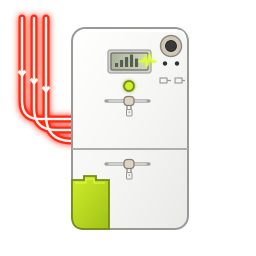
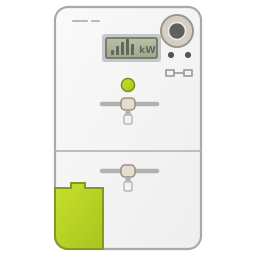
Use compact smart meter artwork

Changed region(s): [[0.0312, 0.0, 0.8125, 1.0], [0.75, 0.0312, 0.7812, 0.0625]]

diff --git a/custom_components/gridpilot/frontend/gridpilot-card.js b/custom_components/gridpilot/frontend/gridpilot-card.js
@@ -158,7 +158,7 @@ class GridPilotCard extends HTMLElement {
       </style>
       <ha-card tabindex="0">
         <div class="heading">
-          <img class="brand-icon" src="/gridpilot_brand/icon.svg?v=0.1.6" alt="">
+          <img class="brand-icon" src="/gridpilot_brand/icon.svg?v=0.1.7" alt="">
           <div class="title"></div>
         </div>
         <div class="battery">

diff --git a/custom_components/gridpilot/const.py b/custom_components/gridpilot/const.py
@@ -5,7 +5,7 @@ from typing import Final
 
 DOMAIN: Final = "gridpilot"
 NAME: Final = "GridPilot"
-VERSION: Final = "0.1.6"
+VERSION: Final = "0.1.7"
 
 PLATFORMS: Final = ["sensor", "binary_sensor"]
 UPDATE_INTERVAL: Final = timedelta(minutes=1)

diff --git a/README.md b/README.md
@@ -10,7 +10,7 @@ compact battery flow dashboard card.
 
 ## Current status
 
-Version `0.1.6` is a public preview. It operates permanently in shadow mode:
+Version `0.1.7` is a public preview. It operates permanently in shadow mode:
 GridPilot reads configured entities and publishes its calculated battery grid
 setpoint, but it never writes to an inverter or charger.
 

diff --git a/CHANGELOG.md b/CHANGELOG.md
@@ -1,5 +1,9 @@
 # Changelog
 
+## 0.1.7 - 2026-08-10
+
+- Replace the smart-meter artwork with the compact 256 px version.
+
 ## 0.1.6 - 2026-08-10
 
 - Add the smart-meter brand artwork to the integration, dashboard card and README.
